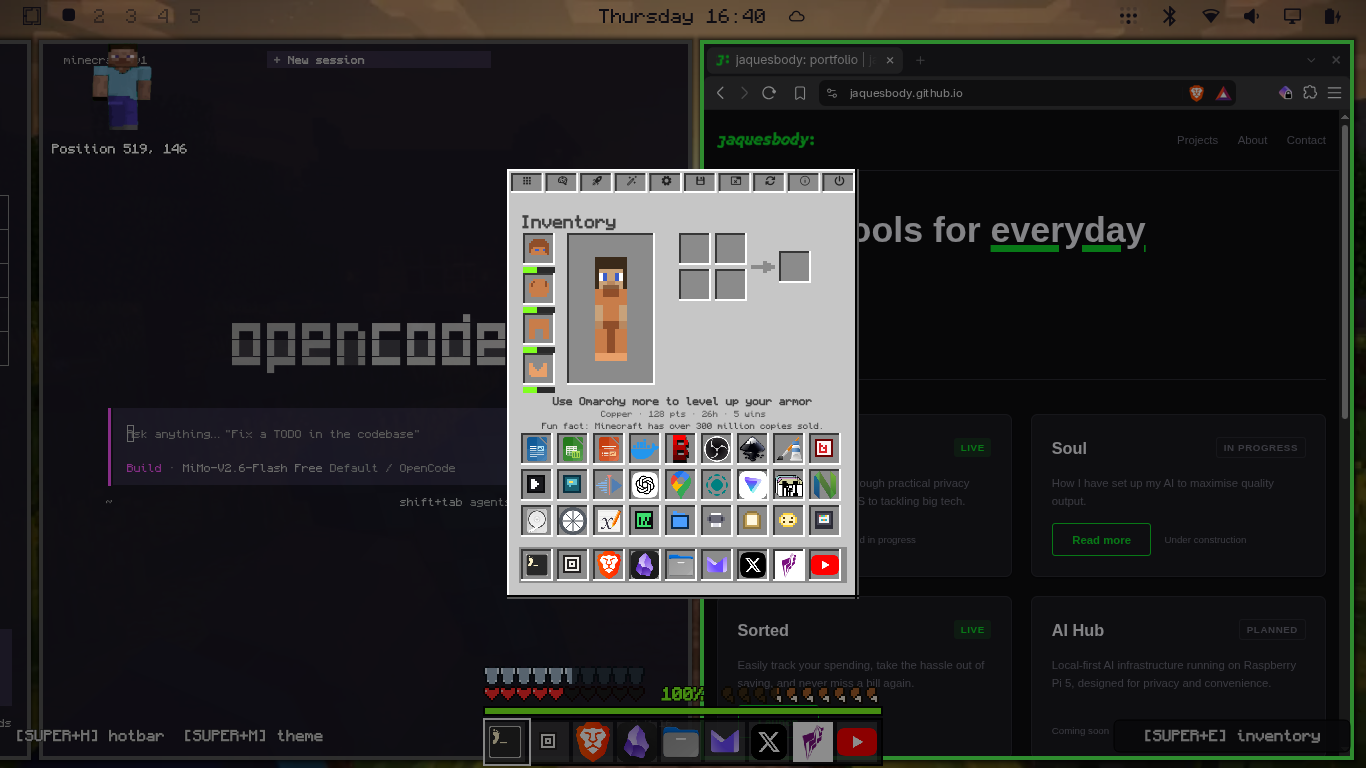
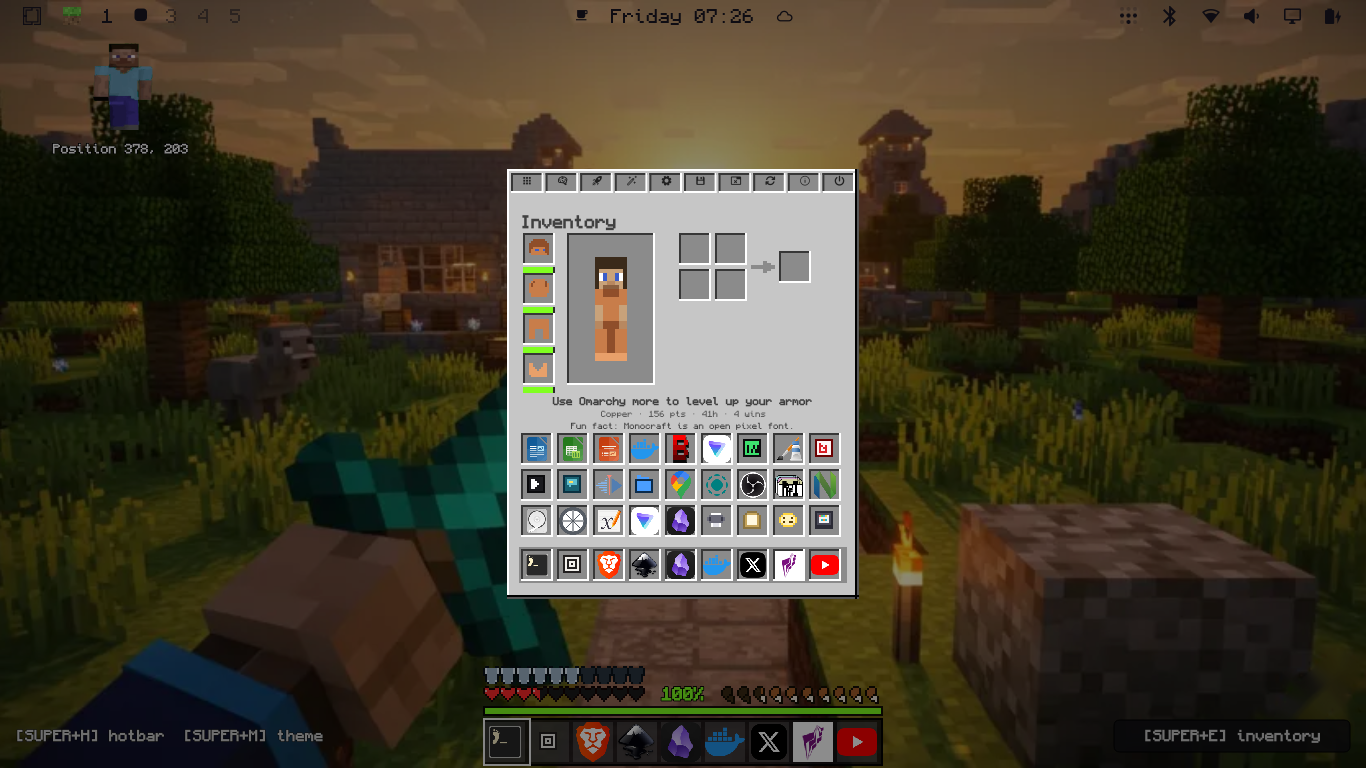
media: refresh screenshots in showcase order
Replace the screenshot set with this morning's captures, shown in the
order they are presented: HUD, inventory, hotbar close-up, inventory
detail (Obsidian tooltip), apps tab. The Steve tooltip shot is dropped;
preview.png tracks the new HUD capture.

diff --git a/README.md b/README.md
@@ -22,13 +22,13 @@ all original art, code, and audio. **Not affiliated with Mojang or Microsoft.**
 
 | HUD | Inventory |
 |-----|-----------|
-| ![HUD with hotbar, hearts and XP bar](media/screenshot-hud.png) | ![Inventory with armor, craft wells and app grid](media/screenshot-inventory.png) |
+| ![HUD over a sunset village with hotbar, hearts, XP bar and Steve](media/screenshot-hud.png) | ![Inventory open over the game world](media/screenshot-inventory.png) |
 
-| Apps tab | Steve tooltip |
-|----------|---------------|
-| ![Inventory Apps tab with pixel icons](media/screenshot-inventory-apps.png) | ![Inventory with Steve sneak tooltip](media/screenshot-steve-tooltip.png) |
+| Hotbar close-up | Inventory detail |
+|-----------------|------------------|
+| ![Hotbar close-up with hearts, XP bar and the Wi-Fi battery widget](media/screenshot-hotbar.png) | ![Inventory detail with craft row, app suggestions and Obsidian tooltip](media/screenshot-inventory-detail.png) |
 
-![Inventory detail with armor progress and fun fact](media/screenshot-inventory-detail.png)
+![Inventory Apps tab with pixel icons](media/screenshot-inventory-apps.png)
 
 ### Demo (66 s)
 
